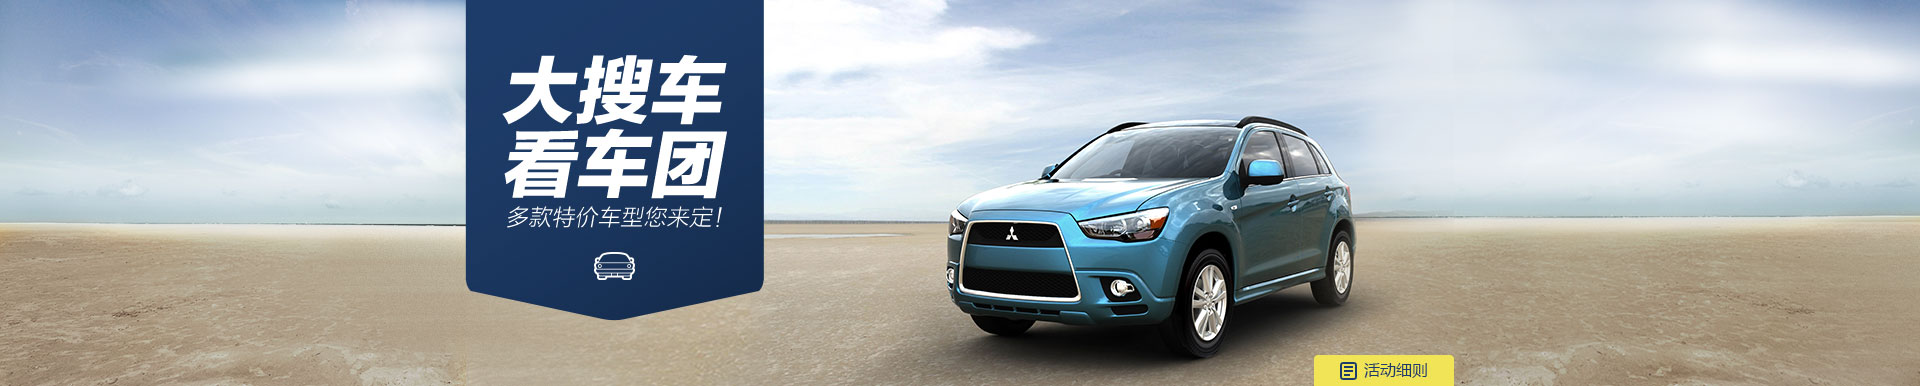
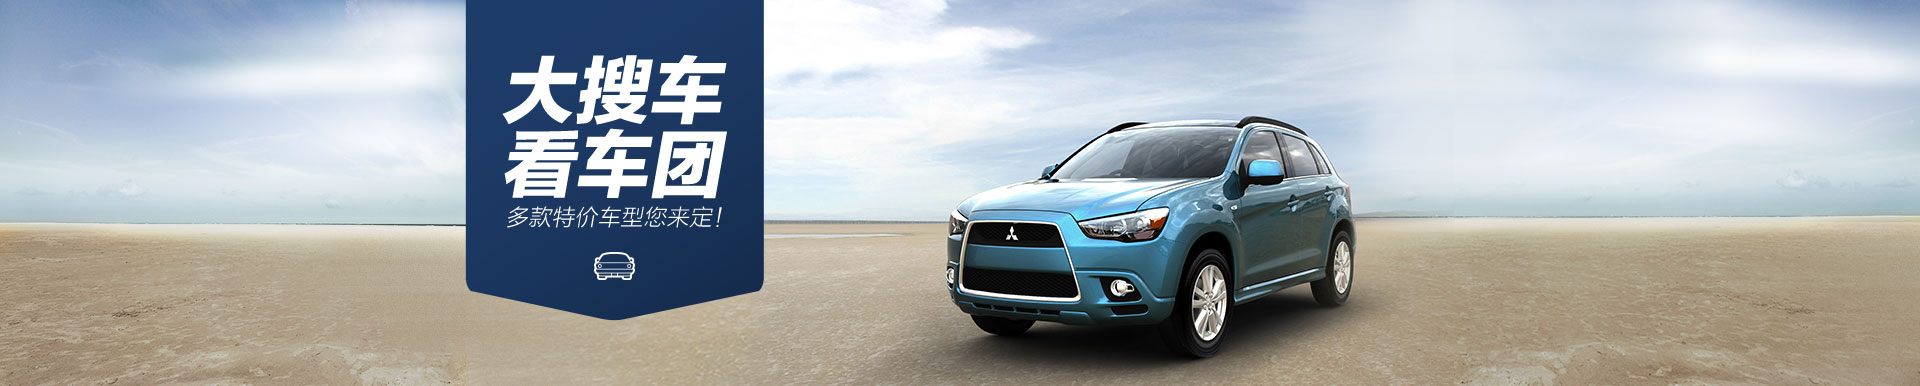
act-cargroup

Changed region(s): [[0.6875, 0.9016, 0.7812, 1.0]]

diff --git a/demo/zilong/acts/cargroup.html b/demo/zilong/acts/cargroup.html
@@ -28,11 +28,27 @@
     <div id='banner' style="width: 1920px;">
         <img src="http://res.souche.com/assets/images/acts/cargroup/banner.jpg">
     </div>
-    <div id="content" style="width: 988px;margin: 0 auto">
+    <div id="content" style="width: 988px;margin: 0 auto;position: relative">
+        <div style="position: absolute;right: 0;top:-31px;">
+            <img src="http://res.souche.com/assets/images/acts/cargroup/btn-rule.png">
+        </div>
         <div style="background: #186a8e;line-height: 45px;height: 45px;color:#fff;font-size: 25px;text-align: center">
             大搜车看车团 每期精选<strong>三款特价热门车系</strong>等您来！
         </div>
         <img src="http://res.souche.com/assets/images/acts/cargroup/process.png" >
+        <img src="http://res.souche.com/assets/images/acts/cargroup/cars-intro.png">
+        <img src="http://res.souche.com/assets/images/acts/cargroup/promise.png">
+        <div style="margin-top:40px;padding-left:60px;background: #b0d266;height: 54px;line-height: 54px;font-size: 30px;">
+            您的购车需求
+        </div>
+        <div class="clearfix">
+            <div id="custom-form"></div>
+            <div id="form-beside" style="padding-top: 8px;float: right">
+                <img src="http://res.souche.com/assets/images/acts/cargroup/form-beside.png">
+            </div>
+        </div>
+        <a id="rule" style="display:block;width: 736px;margin-top: 150px;"><img src="http://res.souche.com/assets/images/acts/cargroup/rule.png"></a>
+
     </div>
 </body>
 </html>
